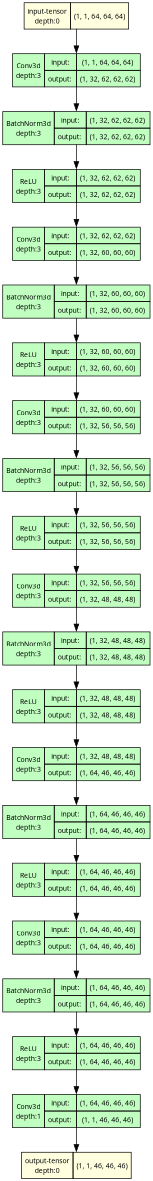
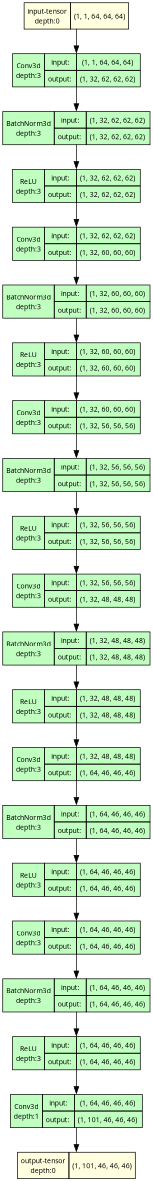
model visuals

Changed region(s): [[0.0523, 0.9145, 0.8889, 1.0], [0.915, 0.9145, 0.9412, 0.9754], [0.1046, 0.9754, 0.1569, 1.0]]

diff --git a/models/ostiapoints_net.py b/models/ostiapoints_net.py
@@ -50,7 +50,7 @@ if __name__ == "__main__":
     draw_graph(
         model,
         input_size=(1,1,64,64,64),
-        graph_name="CenterlineNet",
+        graph_name="OstiapointsNet",
         save_graph=True
     )
 

diff --git a/models/seedspoints_net.py b/models/seedspoints_net.py
@@ -52,7 +52,7 @@ if __name__ == "__main__":
     draw_graph(
         model,
         input_size=(1,1,64,64,64),
-        graph_name="CenterlineNet",
+        graph_name="SeedspointsNet",
         save_graph=True
     )
 